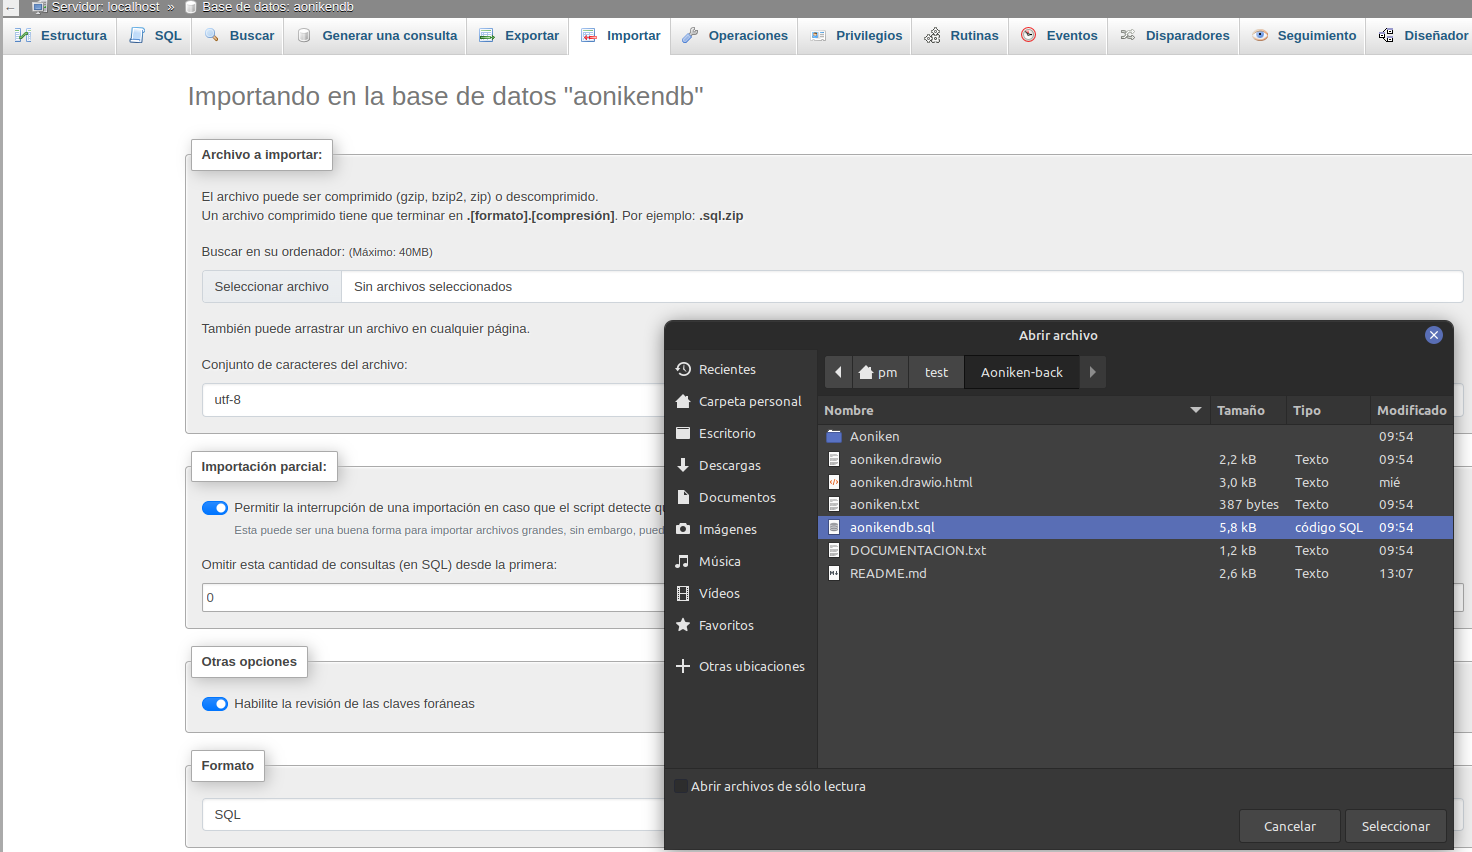
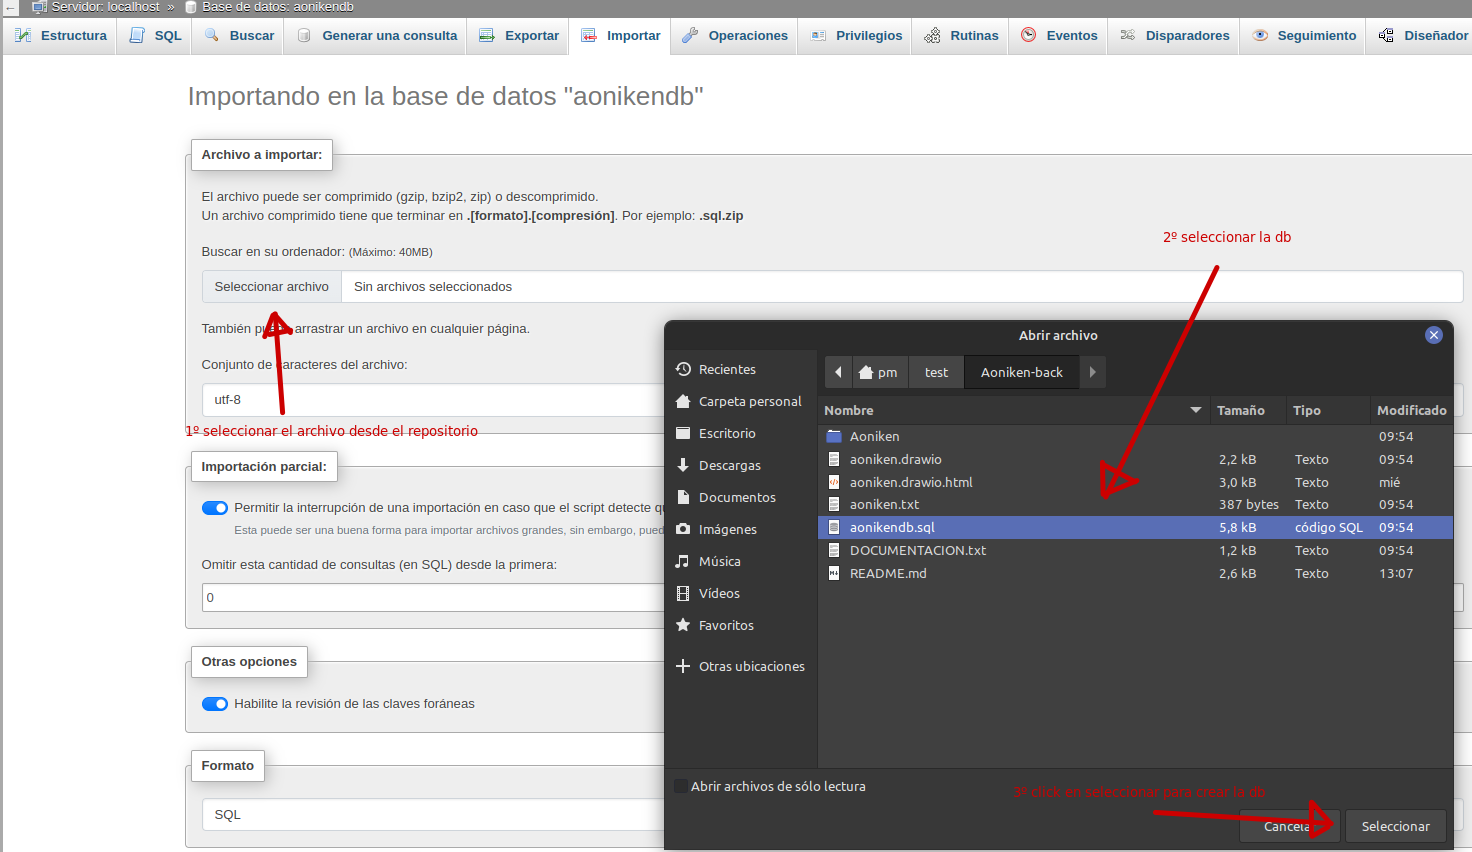
Update readme.md

diff --git a/README.md b/README.md
@@ -34,8 +34,8 @@ y volver a correr
 2. Una vez hecha la BD importar desde http://localhost/phpmyadmin/,  el archivo **aonikendb.sql** que se encuentra en el repositorio, con el se crean todas las tablas y registros
 
 ![alt text](https://github.com/PabloMGonzalez/Aoniken-back/blob/main/aoniken1.png?raw=true)
-
-*imagenes van aca*
+![alt text](https://github.com/PabloMGonzalez/Aoniken-back/blob/main/aoniken2.png?raw=true)
+![alt text](https://github.com/PabloMGonzalez/Aoniken-back/blob/main/aoniken3.png?raw=true)
 
 #### 4º Paso Dependencias de NetCore 6
 1. Instalar las dependencias de NetCore C# para utilizarlo en Linux siguiendo este link: [como instalar dependencias de netcore para linux](https://learn.microsoft.com/es-es/dotnet/core/install/linux-scripted-manual#scripted-install "como instalar dependencias de netcore para linux")
